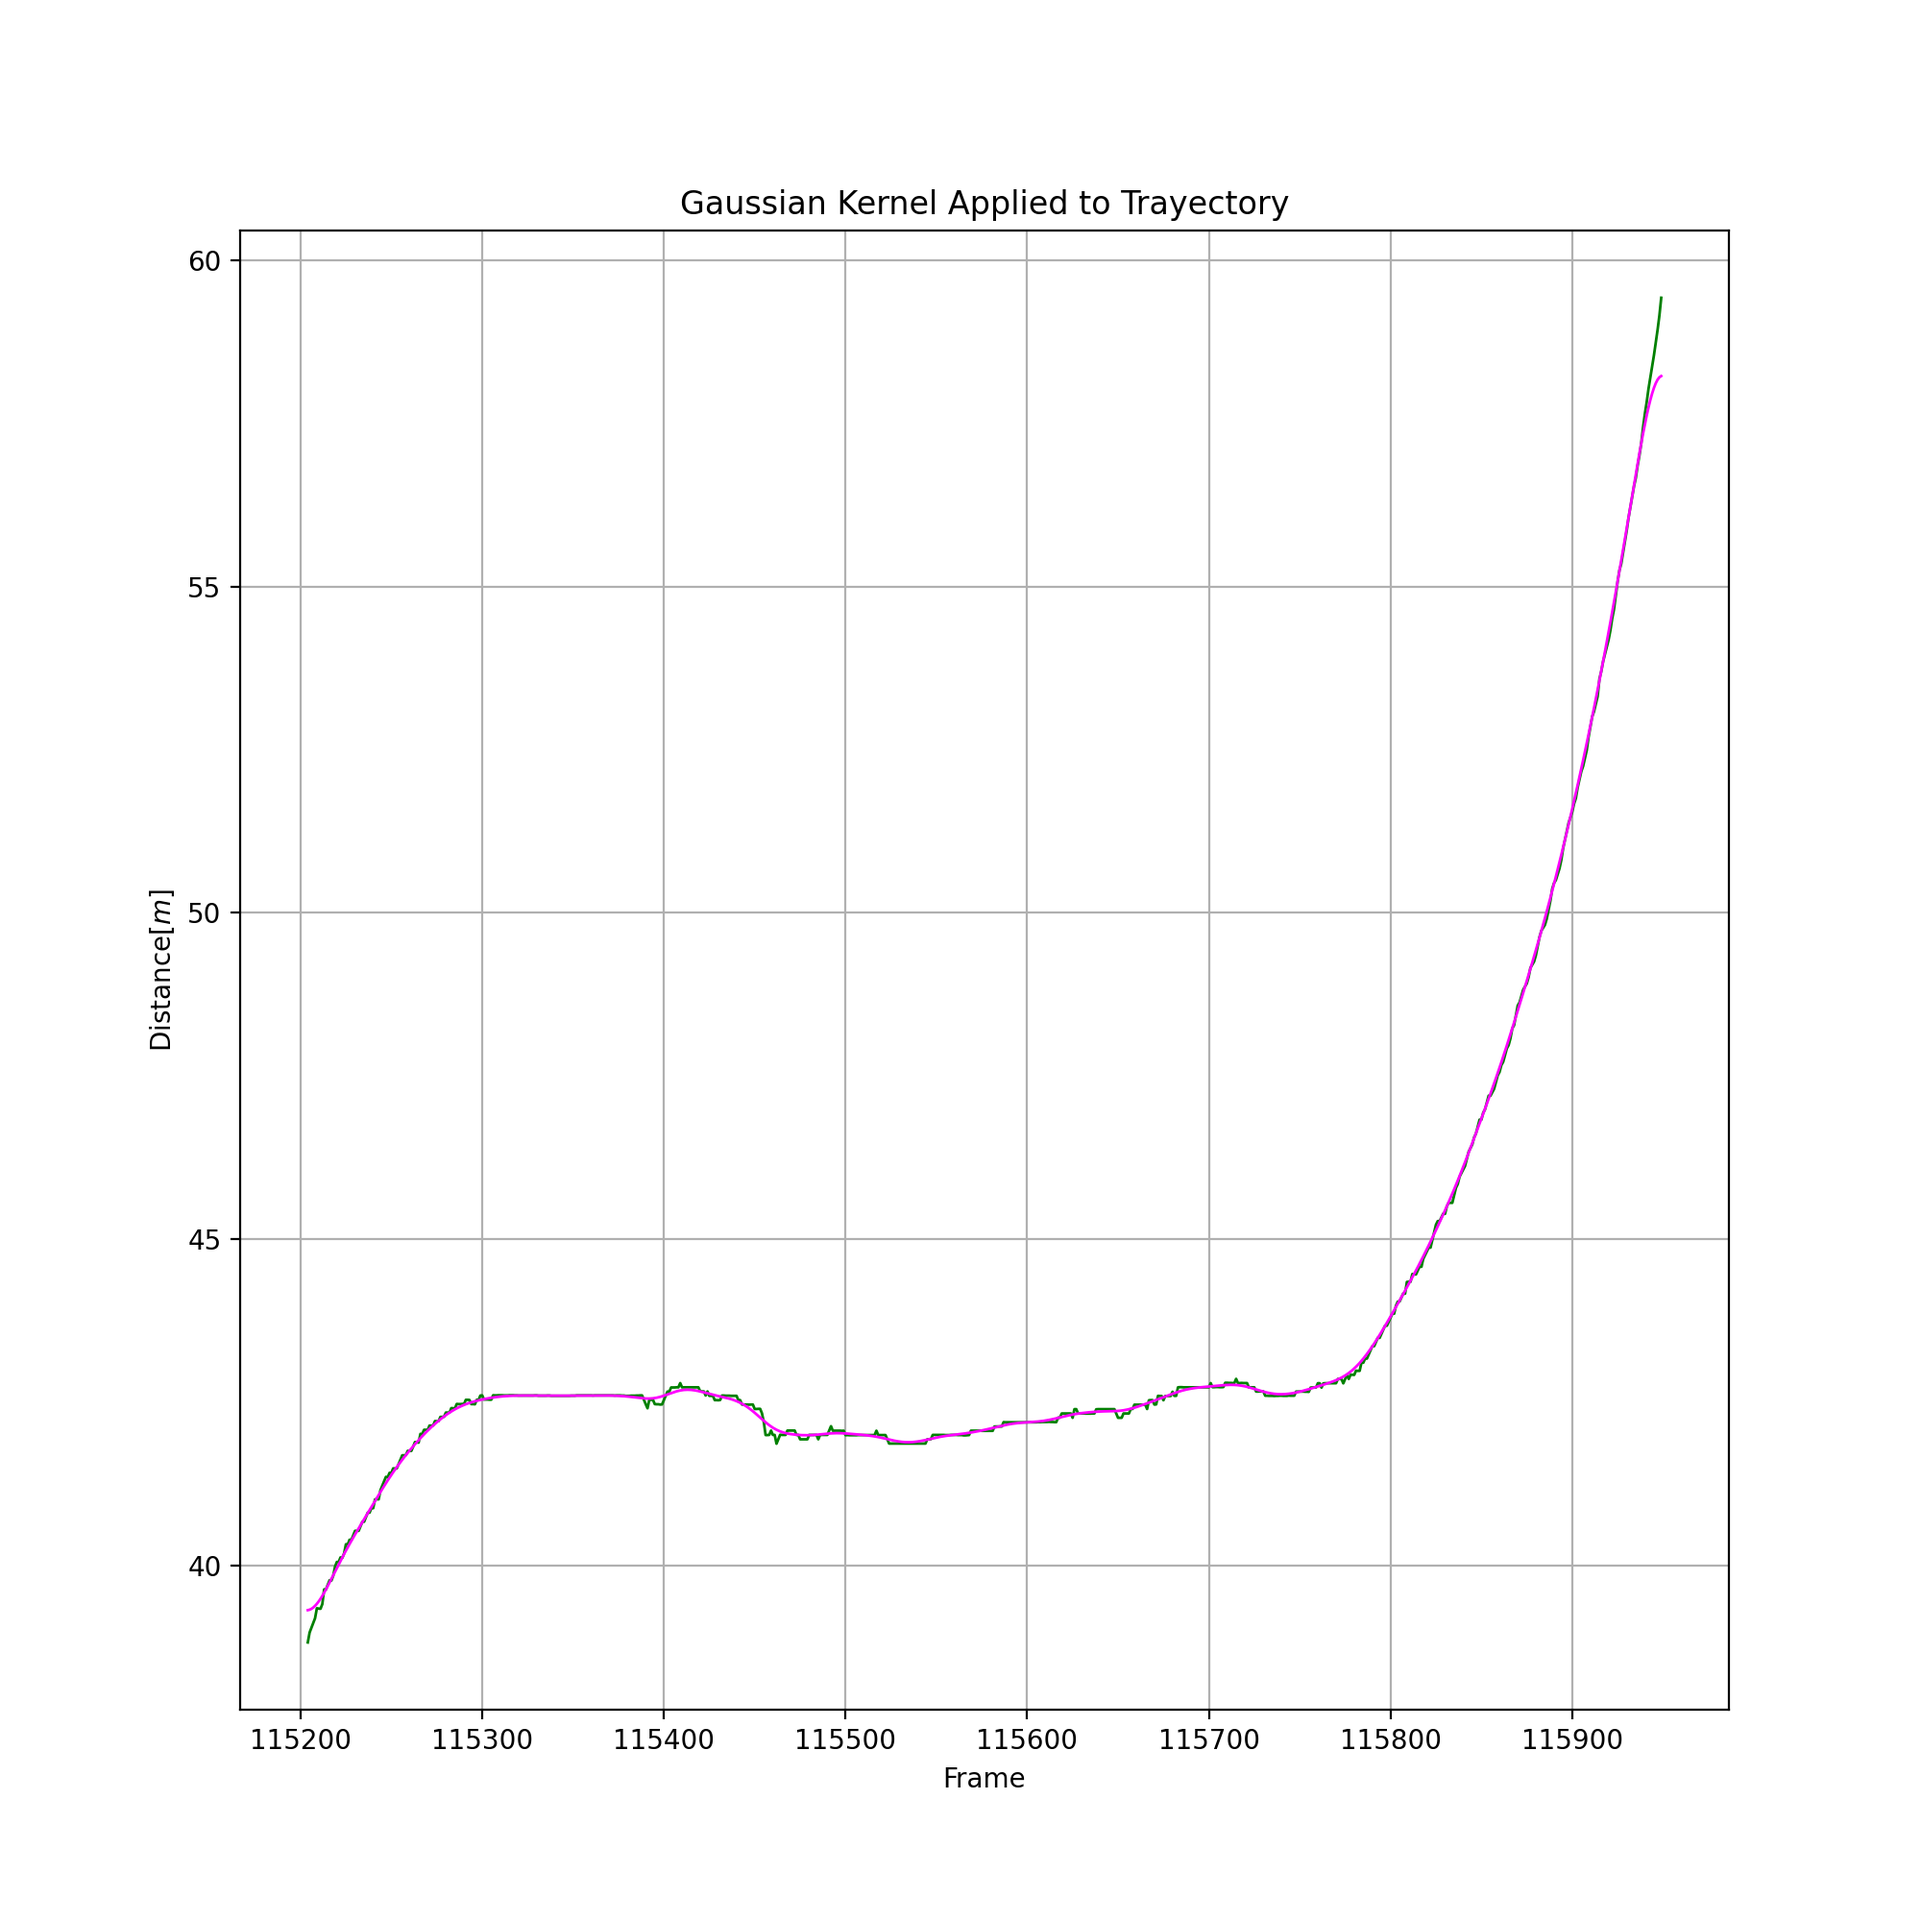
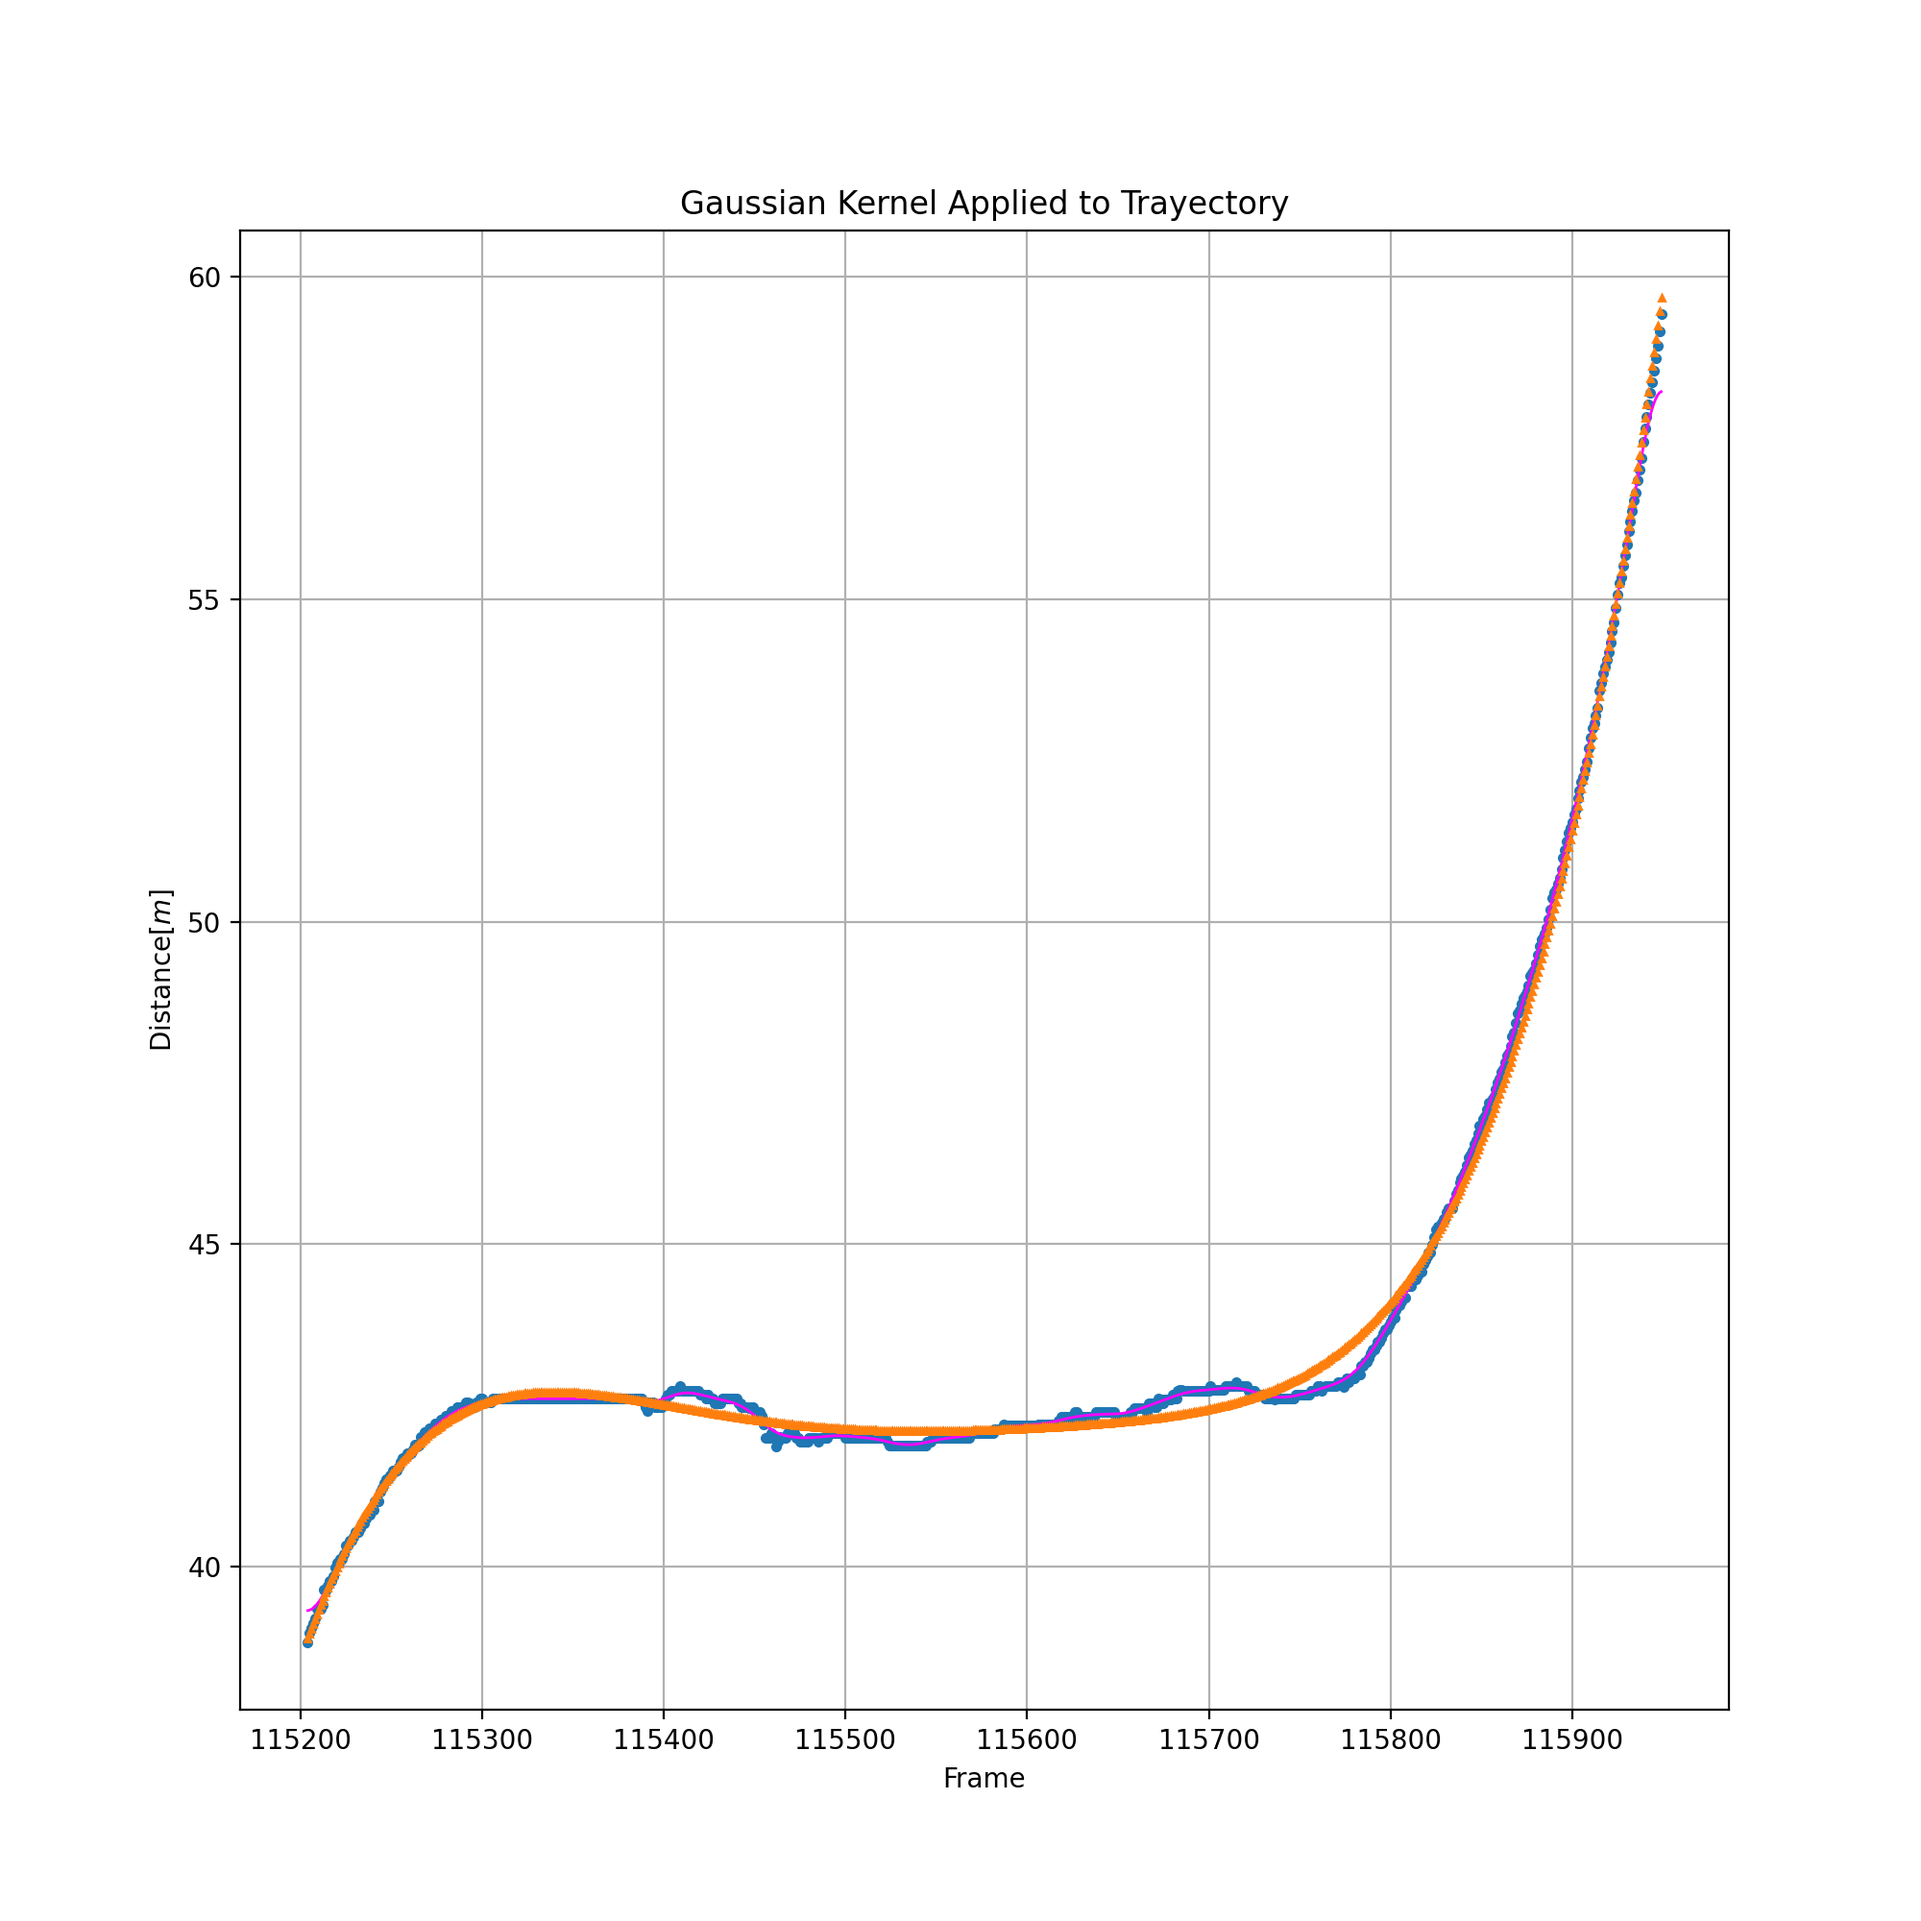
Tested derivatives of the polinomial smoothed data

diff --git a/main.py b/main.py
@@ -9,6 +9,7 @@ from shapely.geometry.polygon import Polygon
 from PyEMD import EMD
 from scipy import signal
 from scipy import ndimage
+from scipy import interpolate
 plt.rcParams['figure.dpi']=200
 #Homography Matrix
 homograph=h_matrix('tools/Cal_PnP/data/calibration.txt')
@@ -275,20 +276,48 @@ def trayectory_processing():
     #Gaussian Kernel on Trayectory data
     x_sm=L_l3['id_10752'][:,-1]
     y_sm=L_l3['id_10752'][:,0]
-    
+
     sigma = 8
-    sigma=8
     x_g1d = ndimage.gaussian_filter1d(x_sm, sigma)
     y_g1d = ndimage.gaussian_filter1d(y_sm, sigma)
     fig, ax = plt.subplots(figsize=(10, 10))
-    
-    plt.plot(x_sm, y_sm, 'green', linewidth=1,label='Original Data')
-    plt.plot(x_sm,y_g1d, 'magenta', linewidth=1,label='Gaussian Kernel Smoothing')
-    plt.grid(True)
-    plt.title('Gaussian Kernel Applied to Trayectory')
-    plt.xlabel('Frame')
-    plt.ylabel('Distance$[m]$')
-    plt.savefig('images/g_kernel_pos.png')
+    spl = interpolate.UnivariateSpline(x_sm, y_sm,k=5) 
+    #plt.plot(x_sm, y_sm,'.',label='Original Data')
+    #plt.plot(x_sm,y_g1d, 'magenta', linewidth=1,label='Gaussian Kernel Smoothing')
+    #plt.plot(x_sm, spl(x_sm),'^',markersize=2,label='Univariante Spline')
+    #plt.grid(True)
+    #plt.title('Gaussian Kernel Applied to Trayectory')
+    #plt.xlabel('Frame')
+    #plt.ylabel('Distance$[m]$')
+    #plt.savefig('images/g_kernel_pos.png')
+    #plt.legend()
+    #plt.show()
+    #Derivatives of filtered data
+    dd_y=spds_acce(x_sm,spl(x_sm))  
+    #i_p=np.zeros([1,2])
+    i_p=[];i_temp=0
+    for i,elem in enumerate(dd_y[:,1]):
+        if(i>0 and i<len(dd_y[:,1])):
+            if((dd_y[:,1][i-1]<0 and dd_y[:,1][i+1]>0) or (dd_y[:,1][i-1]<0 and dd_y[:,1][i+1]>0)):
+                i_p.append([dd_y[:,2][i],elem])
+                if(np.abs(i-i_temp)==1):
+                    i_p.pop()
+                i_temp=i
+    i_px=np.where(dd_y[:,2]==i_p[0][0])
+    #plt.subplot(1,2,1);plt.title('First Derivative')
+    #plt.plot(dd_y[:,2],dd_y[:,0])
+    #plt.plot(i_p[0][0],dd_y[:,0][i_px],'o')
+    #plt.grid(True)
+    #plt.subplot(1,2,2);plt.title('Second Derivative')
+    #for i in i_p:
+    #    plt.plot(i[0],i[1],'o') 
+    #plt.plot(dd_y[:,2],dd_y[:,1],'o',markersize=2)
+    #plt.grid(True)
+    #plt.savefig('images/smoothed_data_derivatives.png') 
+    #plt.show()
+    plt.plot(x_sm, spl(x_sm),linewidth=1,label='Univariante Spline')
+    plt.plot(i_p[0][0],spl(x_sm)[i_px],'o');plt.grid(True)
+    plt.savefig('images/inflection_point_trajectory.png') 
     plt.show()
 if __name__ == '__main__':
     #space_time_diagram() 

diff --git a/tools/utils.py b/tools/utils.py
@@ -209,13 +209,20 @@ def frm2time(L):
       time[i]=dts
     return time
 
-def speeds(L_l):#determinacion del vector de velocidades y aceleraciones
-  speed_ac_l={}
-  h=1/60
-  for i in L_l.keys():
-    if(len(L_l[i])>30):
-      speed_ac_l[i]=np.zeros([np.shape(L_l[i])[0]-2,3])
-      speed_ac_l[i][:,0]=((L_l[i][:,0]-np.roll(L_l[i][:,0],1))/h)[2:]# speed
-      speed_ac_l[i][:,1]=((L_l[i][:,0]-2*np.roll(L_l[i][:,0],1)+np.roll(L_l[i][:,0],2))/(h**2))[2:]#acceleration
-      speed_ac_l[i][:,2]=(L_l[i][:,1])[2:]
-  return speed_ac_l
+def speeds(L_l):#determinacion del vector de velocidades y aceleraciones para un diccionario
+    speed_ac_l={}
+    h=1/60
+    for i in L_l.keys():
+      if(len(L_l[i])>30):
+        speed_ac_l[i]=np.zeros([np.shape(L_l[i])[0]-2,3])
+        speed_ac_l[i][:,0]=((L_l[i][:,0]-np.roll(L_l[i][:,0],1))/h)[2:]# speed
+        speed_ac_l[i][:,1]=((L_l[i][:,0]-2*np.roll(L_l[i][:,0],1)+np.roll(L_l[i][:,0],2))/(h**2))[2:]#acceleration
+        speed_ac_l[i][:,2]=(L_l[i][:,1])[2:]
+    return speed_ac_l
+def spds_acce(x,y):#determinacion del vector de velocidades y aceleraciones para un vector
+    h=1/60
+    s_a=np.zeros([len(y)-2,3]) 
+    s_a[:,0]=((y-np.roll(y,1))/h)[2:]
+    s_a[:,1]=((y-2*np.roll(y,1)+np.roll(y,2))/(h**2))[2:]
+    s_a[:,2]=x[:-2]
+    return s_a

diff --git a/tools/interpolations.py b/tools/interpolations.py
@@ -22,7 +22,7 @@ x_smooth = np.linspace(x_sm.min(), x_sm.max(), 200)
 # spline - always goes through all the data points x/y
 #y_spline = interpolate.spline(x, y, x_smooth)
 y_spline = f(x_smooth,x_sm,y_sm) 
-spl = interpolate.UnivariateSpline(x, y)
+spl = interpolate.UnivariateSpline(x, y,k=4)
 
 sigma = 2
 x_g1d = ndimage.gaussian_filter1d(x_sm, sigma)
@@ -33,11 +33,10 @@ ax.legend(loc='center left', bbox_to_anchor=(1.05, 0.5), frameon=False)
 
 plt.plot(x_sm, y_sm, 'green', linewidth=1,label='Original Data')
 #plt.plot(x_smooth, y_spline, 'red', linewidth=1,label='Cubic Spline')
-#plt.plot(x_sm, spl(x_sm), linewidth=1,label='Univariante Spline')
+plt.plot(x_sm, spl(x_sm), linewidth=1,label='Univariante Spline')
 plt.plot(x_sm,y_g1d, 'magenta', linewidth=1,label='Gaussian Kernel Smoothing')
 plt.legend()
 
 #print(len(y_sm),len(y_spline),len(y_g1d))
 #print(y_spline)
-print(np.arange(0,100,10))
 plt.show()

diff --git a/README.md b/README.md
@@ -11,3 +11,9 @@ In order to clean the noises in the trajectories we filtered the first, second a
 ![](images/filtered_EMD.png)
 We also tried another approach that applies a Gaussian Kernel directly to the trajectories
 ![](images/g_kernel_pos.png)
+Taking a polynomial smoothing of the trajectory and locating the inflection point we have
+![](images/smoothed_data_derivatives.png)
+Visualizing the inflection point on the smoothed trajectory
+![](images/inflection_point_trajectory.png)
+We can see that the inflection point is located approximately where the second derivative changes of sign, but this point is not the point where the cars begin to go backwards, where are going to use the point in the first derivative where it changes sign, this point corresponds to the local maximum and is where the trajectory of the cars begin to go backwards.
+
